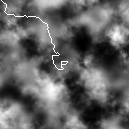
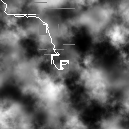
Visuals need photoshop

diff --git a/Python Path Planning/local_planner.py b/Python Path Planning/local_planner.py
@@ -109,18 +109,17 @@ environment = {}
 png = plan.data()
 cur_state = plan.getStartState()
 coordinates = [cur_state]
+png = vis.mod_array(obstacles, png, 125)
 
 while not plan.goal(cur_state):
     obs = lidar(cur_state)
     # print obs, cur_state
     for ob in obs:
         environment[ob] = 255
-    print environment.keys(), cur_state
     actions = plan.aStarSearch(environment.keys(), cur_state)
     for action in actions:
-        print cur_state
         x, y = cur_state[0] + 64, 64 - cur_state[1]
-        png[y][x] = 255
+        png[y][x] = 254
         x, y = cur_state
         dx, dy = delta[action]
         cur_state = (x + dx, y + dy)
@@ -128,21 +127,9 @@ while not plan.goal(cur_state):
         if not all([x in environment for x in lidar(cur_state)]):
             break
 
+png = vis.mod_array(environment, png, 255)
+
 with open("obstacle_astar.png","wb") as f:
     f.write(vis.makeGrayPNG(png))
 with open("obstacle_astar.txt","wb") as f:
     f.write(str(coordinates))
-
-# # change certain color 
-# im = Image.open('fig1.png')
-# data = np.array(im)
-
-# r1, g1, b1 = 255, 255, 255 # Original value
-# r2, g2, b2 = 255, 0, 0 # Value that we want to replace it with
-
-# red, green, blue = data[:,:,0], data[:,:,1], data[:,:,2]
-# mask = (red == r1) & (green == g1) & (blue == b1)
-# data[:,:,:3][mask] = [r2, g2, b2]
-
-# im = Image.fromarray(data)
-# im.save('fig1_modified.png')

diff --git a/Python Path Planning/image_processor.py b/Python Path Planning/image_processor.py
@@ -1,0 +1,28 @@
+from PIL import Image
+import numpy as np
+# background = Image.open("obstacle_astar.png")
+# overlay = Image.open("obstacles.png")
+
+# background = background.convert("RGBA")
+# overlay = overlay.convert("RGBA")
+
+# new_img = Image.blend(background, overlay, 0.5)
+# new_img.save("blended.png","PNG")
+
+# change certain color 
+im = Image.open('obstacle_astar.png')
+data = np.array(im)
+
+print data
+
+r1, g1, b1 = 255, 255, 255 # Original value
+r2, g2, b2 = 125, 0, 0 # Value that we want to replace it with
+
+red, green, blue = data[:,:,0], data[:,:,1], data[:,:,2]
+# red, green, blue = data[:,0], data[:,1], data[:,2]
+mask = (red == r1) & (green == g1) & (blue == b1)
+data[:,:,:3][mask] = [r2, g2, b2]
+# data[:,:3][mask] = [r2, g2, b2]
+
+im = Image.fromarray(data)
+im.save('obstacle_astar_marked.png')

diff --git a/Python Path Planning/visualizer.py b/Python Path Planning/visualizer.py
@@ -8,6 +8,12 @@ def map_to_array(d, size):
 		a[y][x] = d[key]
 	return a
 
+def mod_array(d, array, color):
+    for key in d.keys():
+        x, y = 64 + key[0], 64 - key[1]
+        array[y][x] = color
+    return array
+
 def makeGrayPNG(data, height = None, width = None):
     def I1(value):
         return struct.pack("!B", value & (2**8-1))

diff --git a/Python Path Planning/heightmap_planner.py b/Python Path Planning/heightmap_planner.py
@@ -163,7 +163,6 @@ def aStarSearch(obstacles = [], start_state = getStartState()):
     path = util.Stack()
     nodes.push((state, path))
     states_visited = set(obstacles)
-    print obstacles, states_visited
 
     while True:
         if nodes.isEmpty():
